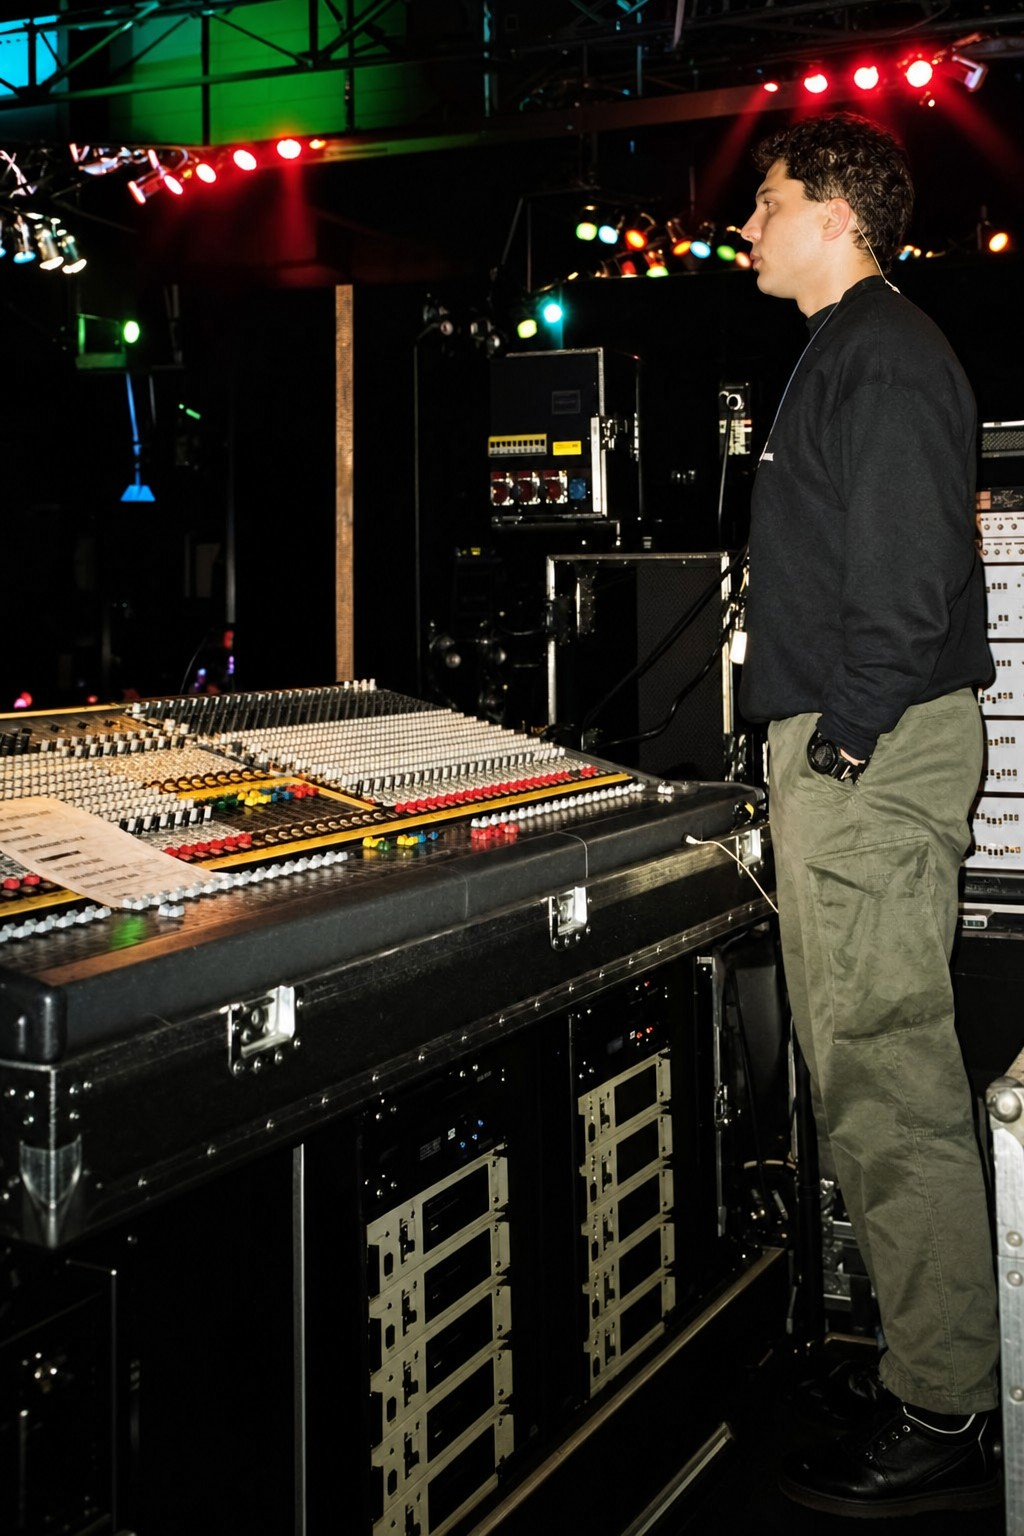
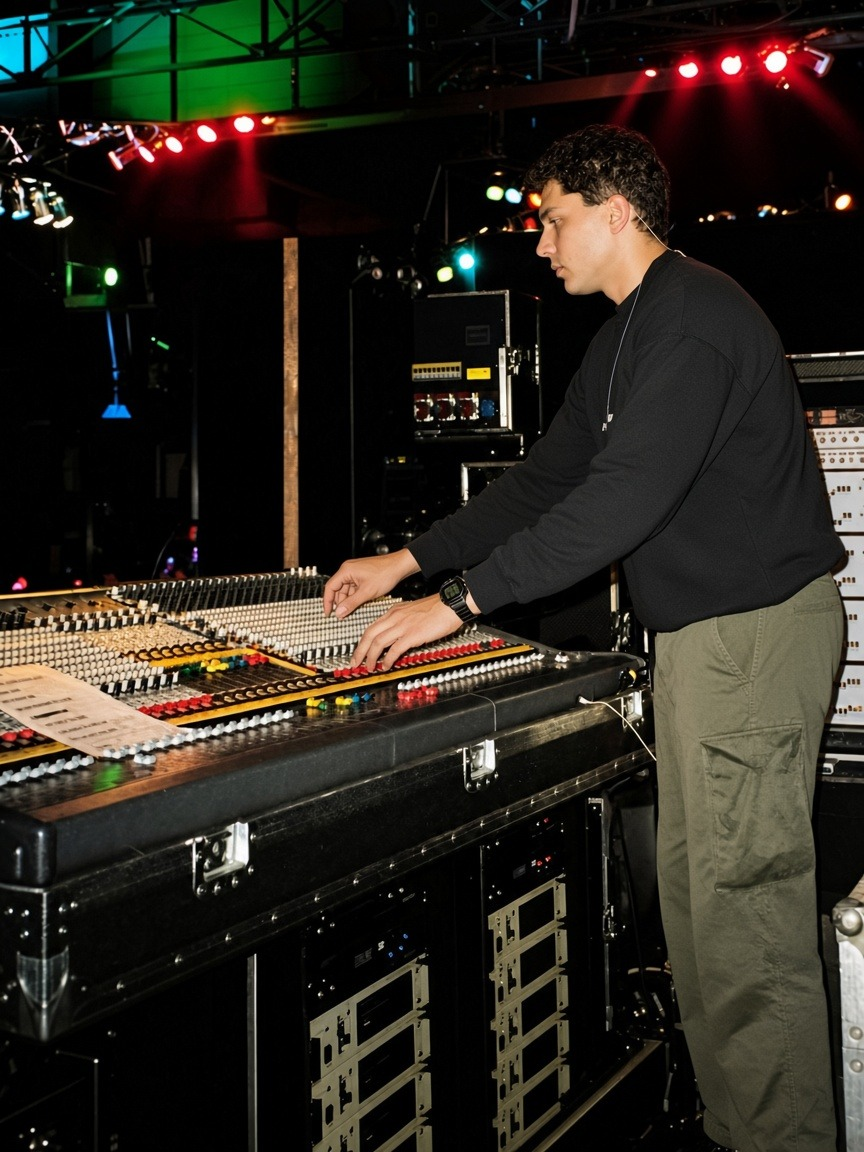
Refresh About chapter photos and center the footer plant laminate.
Swap in the Berlin Wall banner, basement gallery picks, and hands-on console shot, and give the Andy Ebert mark more weight with the V badge between logo and meters.

diff --git a/src/components/layout/Footer.tsx b/src/components/layout/Footer.tsx
@@ -107,58 +107,71 @@ export function Footer({ admin = false }: { admin?: boolean }) {
 
       <Container className="relative z-10 py-10 md:py-12">
         <motion.div
-          className="flex flex-col items-center gap-10 text-center md:flex-row md:items-center md:justify-between md:text-left"
+          className="flex flex-col gap-8 text-center md:gap-10 md:text-left"
           variants={item}
           initial="hidden"
           whileInView="visible"
           viewport={{ once: true, margin: '-40px' }}
         >
-          <div className="flex flex-col items-center gap-6 md:items-start">
-            <div className="flex w-full max-w-full min-w-0 flex-col items-center gap-2">
-              {admin ? (
-                <div className="flex min-w-0 flex-wrap items-center justify-center gap-3 sm:gap-4 md:justify-start">
-                  <div className="rack-brand-wrap rack-brand-wrap--no-seal rack-brand-glow min-w-0">
-                    <Link
-                      to="/"
-                      className="rack-brand rack-brand--glow inline-flex max-w-full min-w-0 flex-col items-center gap-0.5 text-center"
-                    >
-                      <span className="rack-brand__shine" aria-hidden />
-                      <span className="rack-brand__name whitespace-nowrap font-heading text-[clamp(1.5rem,7.5vw,1.875rem)] tracking-[0.1em] sm:text-4xl sm:tracking-[0.12em] md:text-5xl">
-                        <span className="text-white">ANDY</span>{' '}
-                        <span className="text-primary">EBERT</span>
-                      </span>
-                      <span className="rack-brand__sub w-full font-heading text-[0.7rem] uppercase text-muted sm:text-xs">
-                        {t.brand.subtitle}
-                      </span>
-                      <span className="font-heading mt-0.5 text-[0.62rem] tracking-[0.22em] text-primary uppercase sm:text-[0.7rem]">
-                        Admin Area
-                      </span>
-                    </Link>
-                  </div>
-                  <AllAccessLaminate />
-                </div>
-              ) : (
-              <div className="flex min-w-0 flex-col items-center gap-4 md:flex-row md:flex-wrap md:justify-start md:gap-5">
+          {admin ? (
+            <div className="flex flex-col items-center gap-6 md:flex-row md:items-center md:justify-between">
+              <div className="flex min-w-0 flex-wrap items-center justify-center gap-3 sm:gap-4 md:justify-start">
                 <div className="rack-brand-wrap rack-brand-wrap--no-seal rack-brand-glow min-w-0">
                   <Link
                     to="/"
                     className="rack-brand rack-brand--glow inline-flex max-w-full min-w-0 flex-col items-center gap-0.5 text-center"
                   >
                     <span className="rack-brand__shine" aria-hidden />
-                    <span className="rack-brand__name whitespace-nowrap font-heading text-[clamp(1.5rem,7.5vw,1.875rem)] tracking-[0.1em] sm:text-4xl sm:tracking-[0.12em] md:text-5xl">
+                    <span className="rack-brand__name whitespace-nowrap font-heading text-[clamp(1.75rem,8vw,2.25rem)] tracking-[0.1em] sm:text-5xl sm:tracking-[0.12em] md:text-6xl">
                       <span className="text-white">ANDY</span>{' '}
                       <span className="text-primary">EBERT</span>
                     </span>
-                    <span className="rack-brand__sub w-full font-heading text-[0.7rem] uppercase text-muted sm:text-xs">
+                    <span className="rack-brand__sub w-full font-heading text-[0.75rem] uppercase text-muted sm:text-sm">
+                      {t.brand.subtitle}
+                    </span>
+                    <span className="font-heading mt-0.5 text-[0.62rem] tracking-[0.22em] text-primary uppercase sm:text-[0.7rem]">
+                      Admin Area
+                    </span>
+                  </Link>
+                </div>
+                <AllAccessLaminate />
+              </div>
+              <div className="flex w-full flex-col items-center gap-4 md:w-auto md:items-end md:text-right">
+                <VuPair />
+              </div>
+            </div>
+          ) : (
+            <div className="flex w-full flex-col items-center gap-6 md:flex-row md:items-center">
+              <div className="flex shrink-0 flex-col items-center gap-1.5">
+                <div className="rack-brand-wrap rack-brand-wrap--no-seal rack-brand-glow min-w-0">
+                  <Link
+                    to="/"
+                    className="rack-brand rack-brand--glow inline-flex max-w-full min-w-0 flex-col items-center gap-0.5 text-center"
+                  >
+                    <span className="rack-brand__shine" aria-hidden />
+                    <span className="rack-brand__name whitespace-nowrap font-heading text-[clamp(1.75rem,8vw,2.25rem)] tracking-[0.1em] sm:text-5xl sm:tracking-[0.12em] md:text-6xl">
+                      <span className="text-white">ANDY</span>{' '}
+                      <span className="text-primary">EBERT</span>
+                    </span>
+                    <span className="rack-brand__sub w-full font-heading text-[0.75rem] uppercase text-muted sm:text-sm">
                       {t.brand.subtitle}
                     </span>
                   </Link>
                 </div>
+                <p className="rack-brand-caption font-heading text-[0.65rem] tracking-[0.18em] text-muted sm:text-[0.7rem]">
+                  {t.brand.plants}
+                </p>
+              </div>
+              <div className="flex w-full flex-1 items-center justify-center md:min-w-0">
                 <VeganLaminate />
               </div>
-              )}
+              <div className="w-full shrink-0 md:w-auto">
+                <VuPair />
+              </div>
             </div>
+          )}
 
+          <div className="flex flex-col items-center gap-4 md:flex-row md:items-center md:justify-between">
             <nav aria-label={t.a11y.footerNav}>
               <ul className="flex flex-wrap items-center justify-center gap-x-5 gap-y-3 md:justify-start">
                 {links.map((link) => (
@@ -173,10 +186,6 @@ export function Footer({ admin = false }: { admin?: boolean }) {
                 ))}
               </ul>
             </nav>
-          </div>
-
-          <div className="flex w-full flex-col items-center gap-4 md:ml-auto md:w-auto md:items-end md:text-right">
-            <VuPair />
             <button
               type="button"
               onClick={scrollTop}

diff --git a/src/pages/AboutPage.tsx b/src/pages/AboutPage.tsx
@@ -29,6 +29,8 @@ type ChapterImage = {
   fillColumn?: boolean
   /** Short full-width crop, like a chapter header. */
   banner?: boolean
+  /** Taller banner crop. */
+  bannerTall?: boolean
   focus?: string
 }
 
@@ -51,11 +53,11 @@ const CHAPTERS: Chapter[] = [
     layout: 'stack',
     images: [
       {
-        label: 'Young Andy with long hair at a mixing console',
+        label: 'Berlin Wall with Brandenburg Gate in the background',
         aspect: 'aspect-[2.4/1]',
-        src: '/images/about/basement-crew.jpg',
+        src: '/images/about/west-berlin-wall.jpg',
         banner: true,
-        focus: 'object-[center_28%]',
+        focus: 'object-center',
       },
     ],
   },
@@ -72,21 +74,22 @@ const CHAPTERS: Chapter[] = [
         src: '/images/about/basement.jpg',
       },
       {
-        label: 'Andy mixing a live show beside rack cases',
+        label: 'Bell active mixer in the basement control room',
         aspect: 'aspect-[4/3]',
-        src: '/images/about/basement-live.jpg',
-        focus: 'object-[center_30%]',
+        src: '/images/about/basement-bell.jpg',
+        focus: 'object-[center_55%]',
       },
       {
-        label: 'Andy at a mixing console with a friend in a basement venue',
+        label: 'Fostex 12/8 mixer and Yamaha NS-10 in the basement studio',
         aspect: 'aspect-[4/3]',
-        src: '/images/about/basement-crew.jpg',
-        focus: 'object-[center_35%]',
+        src: '/images/about/basement-ns10.jpg',
+        focus: 'object-[center_45%]',
       },
       {
-        label: 'Basement studio with mixing desk, NS-10s, and a CRT workstation',
+        label: 'Basement Studio Tascam 24ch console, Fostex G16S and more gear',
         aspect: 'aspect-[4/3]',
-        src: '/images/about/basement-workstation.jpg',
+        src: 'https://twj9hkdxnej2mgbm.public.blob.vercel-storage.com/gallery/photos/1788831967356-img_5895.jpg',
+        focus: 'object-[center_40%]',
       },
     ],
   },
@@ -98,42 +101,12 @@ const CHAPTERS: Chapter[] = [
     copyBeside: 'left',
     images: [
       {
-        label: 'Andy at a Midas Heritage console on tour',
-        aspect: 'aspect-[4/3]',
-        src: '/images/about/on-the-road.jpg',
-        place: 'followUp',
-        showFull: true,
-        focus: 'object-[22%_top]',
-      },
-      {
         label: 'Andy mixing a live show from a touring console',
         aspect: 'aspect-auto',
         src: '/images/about/on-the-road-console.jpg',
         place: 'end',
         fillColumn: true,
         focus: 'object-[center_20%]',
-      },
-      {
-        label: 'Mixing FOH at an outdoor concert',
-        aspect: 'aspect-[4/3]',
-        src: '/images/about/on-the-road-foh.jpg',
-        place: 'followUp',
-        showFull: true,
-      },
-      {
-        label: 'Andy in front of the Hollywood sign, Los Angeles',
-        aspect: 'aspect-[4/3]',
-        src: '/images/about/los-angeles.jpg',
-        place: 'followUp',
-        showFull: true,
-      },
-      {
-        label: 'Andy with touring crew behind a mixing console',
-        aspect: 'aspect-[4/3]',
-        src: '/images/about/west-berlin.jpg',
-        place: 'followUp',
-        showFull: true,
-        focus: 'object-center',
       },
     ],
   },
@@ -142,14 +115,14 @@ const CHAPTERS: Chapter[] = [
     from: 19,
     to: 27,
     layout: 'stack',
-    copyBeside: 'right',
     images: [
       {
-        label: 'Alanis Morissette performing on stage',
-        aspect: 'aspect-auto',
-        src: '/images/projects/alanis-stage.jpg',
-        place: 'end',
-        fillColumn: true,
+        label: 'Andy in front of the Hollywood sign, Los Angeles',
+        aspect: 'aspect-[2.4/1]',
+        src: '/images/about/los-angeles.jpg',
+        banner: true,
+        bannerTall: true,
+        focus: 'object-[center_35%]',
       },
     ],
   },
@@ -182,7 +155,10 @@ function ChapterImages({ images }: { images: readonly ChapterImage[] }) {
             wrapperClassName={cn(
               'w-full rounded-none border-0',
               img.fillColumn && 'relative h-72 sm:h-80 lg:h-full lg:min-h-0',
-              img.banner && 'relative h-44 overflow-hidden sm:h-56 md:h-64 lg:h-72',
+              img.banner &&
+                (img.bannerTall
+                  ? 'relative h-56 overflow-hidden sm:h-72 md:h-80 lg:h-[28rem]'
+                  : 'relative h-44 overflow-hidden sm:h-56 md:h-64 lg:h-72'),
               img.showFull
                 ? 'max-h-none'
                 : img.banner || img.fillColumn

diff --git a/src/i18n/ui.ts b/src/i18n/ui.ts
@@ -132,33 +132,29 @@ const en = {
       {
         eyebrow: 'West Berlin',
         dek: 'Where it all began.',
-        alts: ['Young Andy with long hair at a mixing console'],
+        alts: ['Berlin Wall with Brandenburg Gate in the background'],
       },
       {
         eyebrow: 'The Basement',
         dek: 'When playing music became an obsession with sound.',
         alts: [
           'Tascam mixer and Pioneer cassette deck in the basement studio',
-          'Andy mixing a live show beside rack cases',
-          'Andy at a mixing console with a friend in a basement venue',
-          'Basement studio with mixing desk, NS-10s, and a CRT workstation',
+          'Bell active mixer in the basement control room',
+          'Fostex 12/8 mixer and Yamaha NS-10 in the basement studio',
+          'Basement Studio Tascam 24ch console, Fostex G16S and more gear',
         ],
       },
       {
         eyebrow: 'On the Road',
         dek: 'Taking the skills from the basement studio into the live world.',
         alts: [
-          'Andy at a Midas Heritage console on tour',
           'Andy mixing a live show from a touring console',
-          'Mixing FOH at an outdoor concert',
-          'Andy in front of the Hollywood sign, Los Angeles',
-          'Andy with touring crew behind a mixing console',
         ],
       },
       {
         eyebrow: 'Los Angeles',
         dek: 'From European tours to an international career.',
-        alts: ['Alanis Morissette performing on stage'],
+        alts: ['Andy in front of the Hollywood sign, Los Angeles'],
       },
     ],
     venice: {
@@ -588,33 +584,29 @@ const de = {
       {
         eyebrow: 'West-Berlin',
         dek: 'Wo alles begann.',
-        alts: ['Junger Andy mit langen Haaren am Mischpult'],
+        alts: ['Berliner Mauer mit Brandenburger Tor im Hintergrund'],
       },
       {
         eyebrow: 'Der Keller',
         dek: 'Als aus Musizieren die Faszination für Sound wurde.',
         alts: [
           'Tascam-Mischpult und Pioneer-Kassettendeck im Kellerstudio',
-          'Andy mischt eine Live-Show neben Rack-Cases',
-          'Andy am Mischpult mit einem Freund in einem Keller-Venue',
-          'Kellerstudio mit Mischpult, NS-10s und CRT-Workstation',
+          'Bell Active Mixer im Keller-Kontrollraum',
+          'Fostex 12/8-Mischpult und Yamaha NS-10 im Kellerstudio',
+          'Kellerstudio mit Tascam-24-Kanal-Pult, Fostex G16S und weiterem Gear',
         ],
       },
       {
         eyebrow: 'Unterwegs',
         dek: 'Die Fähigkeiten aus dem Kellerstudio in die Live-Welt bringen.',
         alts: [
-          'Andy am Midas-Heritage-Pult auf Tour',
           'Andy mischt eine Live-Show an einem Tourpult',
-          'FOH Mix bei einem Open-Air-Konzert',
-          'Andy vor dem Hollywood-Schriftzug, Los Angeles',
-          'Andy mit Tourcrew hinter einem Mischpult',
         ],
       },
       {
         eyebrow: 'Los Angeles',
         dek: 'Von europäischen Touren zu einer internationalen Karriere.',
-        alts: ['Alanis Morissette auf der Bühne'],
+        alts: ['Andy vor dem Hollywood-Schriftzug, Los Angeles'],
       },
     ],
     venice: {
